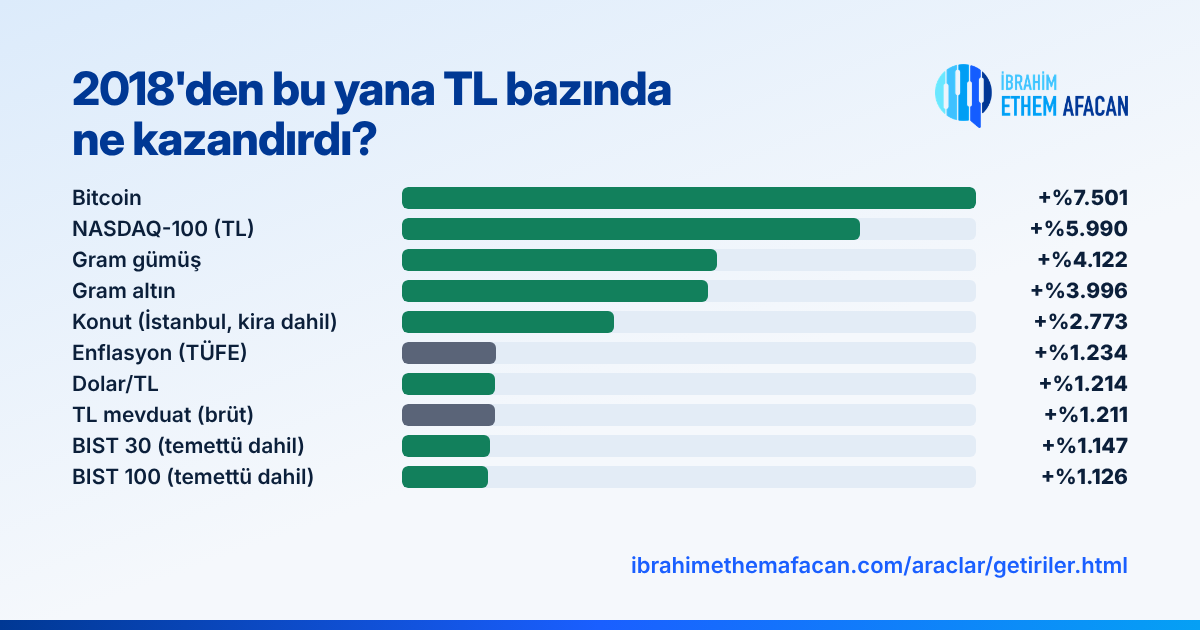
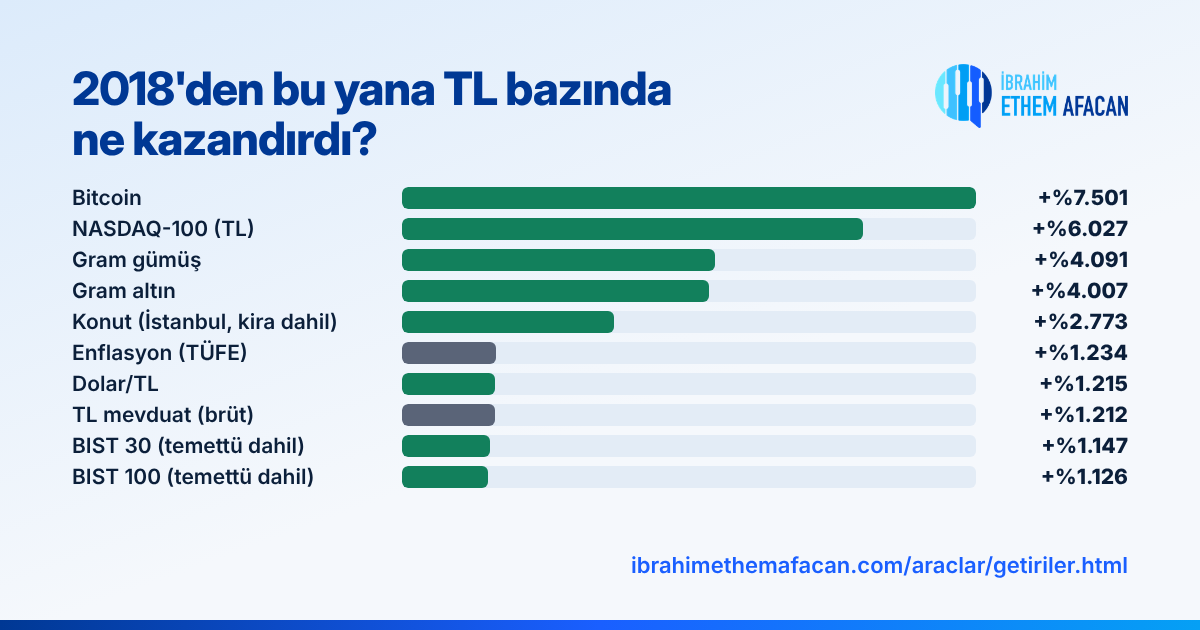
Getiriler: 28 Ekim kapanışına güncellendi (bitcoin 27 Ekim'de kaldı)
Claude-Session: https://claude.ai/code/session_013mrGbpFadh1h9epcSoKPzq

Changed region(s): [[0.8633, 0.3317, 0.9558, 0.4222], [0.8633, 0.6032, 0.9558, 0.6937], [0.8633, 0.4524, 0.9558, 0.4825]]

diff --git a/araclar/getiriler.html b/araclar/getiriler.html
@@ -11,14 +11,14 @@
   <meta property="og:title" content="Yatırım Araçlarının Getirileri: 2018'den bu yana TL bazında ne kazandırdı?">
   <meta property="og:description" content="2018'den bu yana TL bazında gram altın, gram gümüş, BIST 100 ve BIST 30 (temettü dahil), NASDAQ-100, dolar/TL, bitcoin ve İstanbul'da konutun (kira dahil) mevduat ve enflasyonla karşılaştırmalı yıllık ve kümülatif getirileri.">
   <meta property="og:url" content="https://ibrahimethemafacan.com/araclar/getiriler.html">
-  <meta property="og:image" content="https://ibrahimethemafacan.com/img/og-getiriler.png?v=7">
+  <meta property="og:image" content="https://ibrahimethemafacan.com/img/og-getiriler.png?v=8">
   <meta property="og:image:width" content="1200">
   <meta property="og:image:height" content="630">
   <meta name="twitter:card" content="summary_large_image">
   <meta name="twitter:site" content="@ibrahim___ethem">
   <meta name="twitter:title" content="Yatırım Araçlarının Getirileri: 2018'den bu yana TL bazında ne kazandırdı?">
   <meta name="twitter:description" content="2018'den bu yana TL bazında gram altın, gram gümüş, BIST 100 ve BIST 30 (temettü dahil), NASDAQ-100, dolar/TL, bitcoin ve İstanbul'da konutun (kira dahil) mevduat ve enflasyonla karşılaştırmalı yıllık ve kümülatif getirileri.">
-  <meta name="twitter:image" content="https://ibrahimethemafacan.com/img/og-getiriler.png?v=7">
+  <meta name="twitter:image" content="https://ibrahimethemafacan.com/img/og-getiriler.png?v=8">
   <link rel="icon" href="/favicon.ico" sizes="any">
   <link rel="icon" type="image/png" sizes="32x32" href="/img/favicon-32.png">
   <link rel="icon" type="image/png" sizes="192x192" href="/img/favicon-192.png">
@@ -48,7 +48,7 @@
   <main class="wrap narrow">
     <article class="prose wide">
       <h1>Yatırım araçlarının getirileri</h1>
-      <p>2018 başından 27 Ekim 2026'ya kadar, Türk lirası bazında. Bir aracı seçin; her yılın getirisini ve dönem başından itibaren biriken toplam getiriyi görün.</p>
+      <p>2018 başından 28 Ekim 2026'ya kadar, Türk lirası bazında. Bir aracı seçin; her yılın getirisini ve dönem başından itibaren biriken toplam getiriyi görün.</p>
     </article>
 
     <section class="race" aria-label="2018'den bu yana">
@@ -70,7 +70,7 @@
 
     <article class="prose">
       <h2>Notlar</h2>
-      <p>2026 satırı yıl başından 27 Ekim 2026'ya kadarki dönemi kapsar. NASDAQ-100 ve bitcoin için 27 Ekim kapanış fiyatı kullanılmıştır. Kümülatif getiri, yıllık getirilerin bileşik olarak çarpılmasıyla bulunur; bu yüzden yıllık oranların basit toplamından farklıdır. BIST 100 ve BIST 30 getirileri temettüler dahil hesaplanmıştır. NASDAQ-100, endeks puanının dolar/TL kuruyla çarpılmasıyla TL'ye çevrilmiştir; temettüler hariçtir. Gram altın GLDGR kapanışlarından, gram gümüş ise XAGTRY (ons gümüş/TL) kapanışlarının 31,1035'e bölünerek grama çevrilmesiyle hesaplanmıştır. Bitcoin'in yıl sonu değeri, yılın son günündeki BTC/USDT kapanışının dolar/TL kuruyla çarpılmasıyla bulunmuştur. Konut getirisi, İstanbul konut fiyatlarındaki değişim (TCMB Konut Fiyat Endeksi) ile brüt kira getirisinin toplamıdır. Kira getirisi, TCMB'nin İstanbul'da değerlemesi yapılan konutlara ait birim kira ve birim fiyat verilerinden hesaplanmıştır; aidat, vergi ve boş kalma süresi gibi masraflar hariçtir. TL mevduat getirisi, TCMB'nin açıkladığı 3 aya kadar vadeli TL mevduat faizlerinin (ağırlıklı ortalama, akım) aylık ortalamalarıyla, mevduatın her üç ayda bir yenilendiği varsayılarak hesaplanmıştır; stopaj öncesi brüt getiridir. Enflasyon, TÜİK'in açıkladığı tüketici fiyat endeksinin (TÜFE) Aralıktan Aralığa değişimidir; 2026 satırı Eylül 2026'ya kadarki değişimi gösterir. Geçmiş getiriler gelecekteki getirilerin göstergesi değildir.</p>
+      <p>2026 satırı yıl başından 28 Ekim 2026'ya kadarki dönemi kapsar. NASDAQ-100 için 28 Ekim, bitcoin için 27 Ekim kapanış fiyatı kullanılmıştır. Kümülatif getiri, yıllık getirilerin bileşik olarak çarpılmasıyla bulunur; bu yüzden yıllık oranların basit toplamından farklıdır. BIST 100 ve BIST 30 getirileri temettüler dahil hesaplanmıştır. NASDAQ-100, endeks puanının dolar/TL kuruyla çarpılmasıyla TL'ye çevrilmiştir; temettüler hariçtir. Gram altın GLDGR kapanışlarından, gram gümüş ise XAGTRY (ons gümüş/TL) kapanışlarının 31,1035'e bölünerek grama çevrilmesiyle hesaplanmıştır. Bitcoin'in yıl sonu değeri, yılın son günündeki BTC/USDT kapanışının dolar/TL kuruyla çarpılmasıyla bulunmuştur. Konut getirisi, İstanbul konut fiyatlarındaki değişim (TCMB Konut Fiyat Endeksi) ile brüt kira getirisinin toplamıdır. Kira getirisi, TCMB'nin İstanbul'da değerlemesi yapılan konutlara ait birim kira ve birim fiyat verilerinden hesaplanmıştır; aidat, vergi ve boş kalma süresi gibi masraflar hariçtir. TL mevduat getirisi, TCMB'nin açıkladığı 3 aya kadar vadeli TL mevduat faizlerinin (ağırlıklı ortalama, akım) aylık ortalamalarıyla, mevduatın her üç ayda bir yenilendiği varsayılarak hesaplanmıştır; stopaj öncesi brüt getiridir. Enflasyon, TÜİK'in açıkladığı tüketici fiyat endeksinin (TÜFE) Aralıktan Aralığa değişimidir; 2026 satırı Eylül 2026'ya kadarki değişimi gösterir. Geçmiş getiriler gelecekteki getirilerin göstergesi değildir.</p>
     </article>
   </main>
 
@@ -83,14 +83,14 @@
   </footer>
 
   <script>
-    // Yıllık değişim (%) ve kümülatif (%) — 2026: 27 Ekim 2026'ya kadar
+    // Yıllık değişim (%) ve kümülatif (%) — 2026: 28 Ekim 2026'ya kadar
     var DATA = [
       { id: 'altin', name: 'Gram altın', color: '#B8862B',
-        foot: '158,80 TL → 6.502,17 TL',
-        rows: [[2018,37.4,37.4],[2019,33.1,82.8],[2020,56.4,186.0],[2021,72.0,392.0],[2022,40.5,591.1],[2023,78.3,1132],[2024,52.5,1779],[2025,99.5,3648],['2026*',9.3,3996]] },
+        foot: '158,80 TL → 6.519,16 TL',
+        rows: [[2018,37.4,37.4],[2019,33.1,82.8],[2020,56.4,186.0],[2021,72.0,392.0],[2022,40.5,591.1],[2023,78.3,1132],[2024,52.5,1779],[2025,99.5,3648],['2026*',9.6,4007]] },
       { id: 'gumus', name: 'Gram gümüş', color: '#8A9BA8',
-        foot: '2,07 TL → 87,18 TL',
-        rows: [[2018,27.4,27.4],[2019,29.8,65.5],[2020,84.6,205.5],[2021,57.4,380.8],[2022,45.0,597.0],[2023,56.7,992.2],[2024,45.7,1491],[2025,198.4,4648],['2026*',-11.1,4122]] },
+        foot: '2,07 TL → 86,54 TL',
+        rows: [[2018,27.4,27.4],[2019,29.8,65.5],[2020,84.6,205.5],[2021,57.4,380.8],[2022,45.0,597.0],[2023,56.7,992.2],[2024,45.7,1491],[2025,198.4,4648],['2026*',-11.8,4091]] },
       { id: 'bist', name: 'BIST 100 (temettü dahil)', tab: 'BIST 100', color: '#0F6B57',
         star: '* 28 Ekim 2026 kapanışı itibarıyla (Borsa İstanbul yarım gün işlem gördü). ',
         foot: 'Temettüler yeniden yatırılmış kabul edilir.',
@@ -100,12 +100,13 @@
         foot: 'Temettüler yeniden yatırılmış kabul edilir.',
         rows: [[2018,-16.7,-16.7],[2019,25.6,4.6],[2020,19.5,25.0],[2021,27.9,59.9],[2022,203.4,385.2],[2023,38.6,572.4],[2024,37.5,824.6],[2025,16.3,975.3],['2026*',16.0,1147]] },
       { id: 'ndx', name: 'NASDAQ-100 (TL)', tab: 'NASDAQ-100', color: '#2E5AAC',
-        foot: '24.246 TL → 1.476.692 TL. Endeks puanı, dolar/TL kuruyla TL\'ye çevrilmiştir; temettüler hariçtir.',
-        rows: [[2018,38.2,38.2],[2019,55.1,114.3],[2020,84.5,295.2],[2021,126.1,793.7],[2022,-5.5,744.2],[2023,143.2,1953],[2024,49.3,2966],[2025,45.8,4370],['2026*',36.2,5990]] },
+        foot: '24.246 TL → 1.485.802 TL. Endeks puanı, dolar/TL kuruyla TL\'ye çevrilmiştir; temettüler hariçtir.',
+        rows: [[2018,38.2,38.2],[2019,55.1,114.3],[2020,84.5,295.2],[2021,126.1,793.7],[2022,-5.5,744.2],[2023,143.2,1953],[2024,49.3,2966],[2025,45.8,4370],['2026*',37.0,6027]] },
       { id: 'usd', name: 'Dolar/TL', color: '#3B5B8C',
-        foot: '3,79 TL → 49,80 TL',
-        rows: [[2018,39.7,39.7],[2019,12.4,57.0],[2020,25.0,96.2],[2021,80.3,253.6],[2022,39.6,393.6],[2023,57.5,677.6],[2024,20.0,833.4],[2025,21.4,1033],['2026*',15.9,1214]] },
+        foot: '3,79 TL → 49,84 TL',
+        rows: [[2018,39.7,39.7],[2019,12.4,57.0],[2020,25.0,96.2],[2021,80.3,253.6],[2022,39.6,393.6],[2023,57.5,677.6],[2024,20.0,833.4],[2025,21.4,1033],['2026*',16.0,1215]] },
       { id: 'btc', name: 'Bitcoin', color: '#E8891C',
+        star: '* 27 Ekim 2026 kapanışı itibarıyla. ',
         foot: '52.961 TL → 4.023.833 TL. TL fiyatı, BTC/USDT fiyatı ile dolar/TL kurunun çarpımıdır.',
         rows: [[2018,-63.3,-63.3],[2019,119.7,-19.4],[2020,407.3,308.9],[2021,181.3,1050],[2022,-49.1,485.3],[2023,306.2,2278],[2024,162.9,6151],[2025,13.7,7005],['2026*',7.0,7501]] },
       { id: 'konut', name: 'Konut (İstanbul/kira dahil)', tab: 'Konut', color: '#6B4E9B',
@@ -113,9 +114,9 @@
         foot: 'İstanbul konut fiyat değişimi (TCMB) ile brüt kira getirisinin toplamıdır. Vergi ve masraflar hariçtir.',
         rows: [[2018,6.2,6.2],[2019,9.3,16.1],[2020,33.3,54.7],[2021,73.9,169.0],[2022,174.5,638.5],[2023,72.3,1172],[2024,31.9,1579],[2025,35.5,2175],['2026*',26.3,2773]] },
       { id: 'mevduat', name: 'TL mevduat (brüt)', tab: 'Mevduat', color: '#8A94A6', bench: true,
-        star: '* 27 Ekim 2026 itibarıyla (faiz verisi 16 Ekim haftasına kadar). ',
+        star: '* 28 Ekim 2026 itibarıyla (faiz verisi 16 Ekim haftasına kadar). ',
         foot: '3 aya kadar vadeli TL mevduatın her vade sonunda yenilendiği varsayılmıştır. Stopaj öncesi brüt getiridir.',
-        rows: [[2018,19.3,19.3],[2019,20.1,43.2],[2020,11.2,59.2],[2021,19.4,90.1],[2022,20.4,128.8],[2023,40.2,220.8],[2024,73.2,455.7],[2025,64.2,812.4],['2026*',43.7,1211]] },
+        rows: [[2018,19.3,19.3],[2019,20.1,43.2],[2020,11.2,59.2],[2021,19.4,90.1],[2022,20.4,128.8],[2023,40.2,220.8],[2024,73.2,455.7],[2025,64.2,812.4],['2026*',43.9,1212]] },
       { id: 'tufe', name: 'Enflasyon (TÜFE)', tab: 'Enflasyon', color: '#8A94A6', bench: true,
         star: '* Eylül 2026 itibarıyla (TÜİK\'in açıkladığı son veri). ',
         foot: 'Bir aracın kümülatif getirisi buradaki kümülatif enflasyondan yüksekse, o araç dönem boyunca enflasyonu yenmiştir.',
@@ -165,7 +166,7 @@
           '<td class="r rt-cum">' + pct(r[2], true) + '</td></tr>';
       }).join('');
       fitLabels();
-      document.getElementById('foot').textContent = (d.star || '* 27 Ekim 2026 itibarıyla. ') + d.foot;
+      document.getElementById('foot').textContent = (d.star || '* 28 Ekim 2026 itibarıyla. ') + d.foot;
     }
 
     // Oran her zaman çubuğun içinde; kısa çubuklar oranın sığacağı kadar uzatılır
